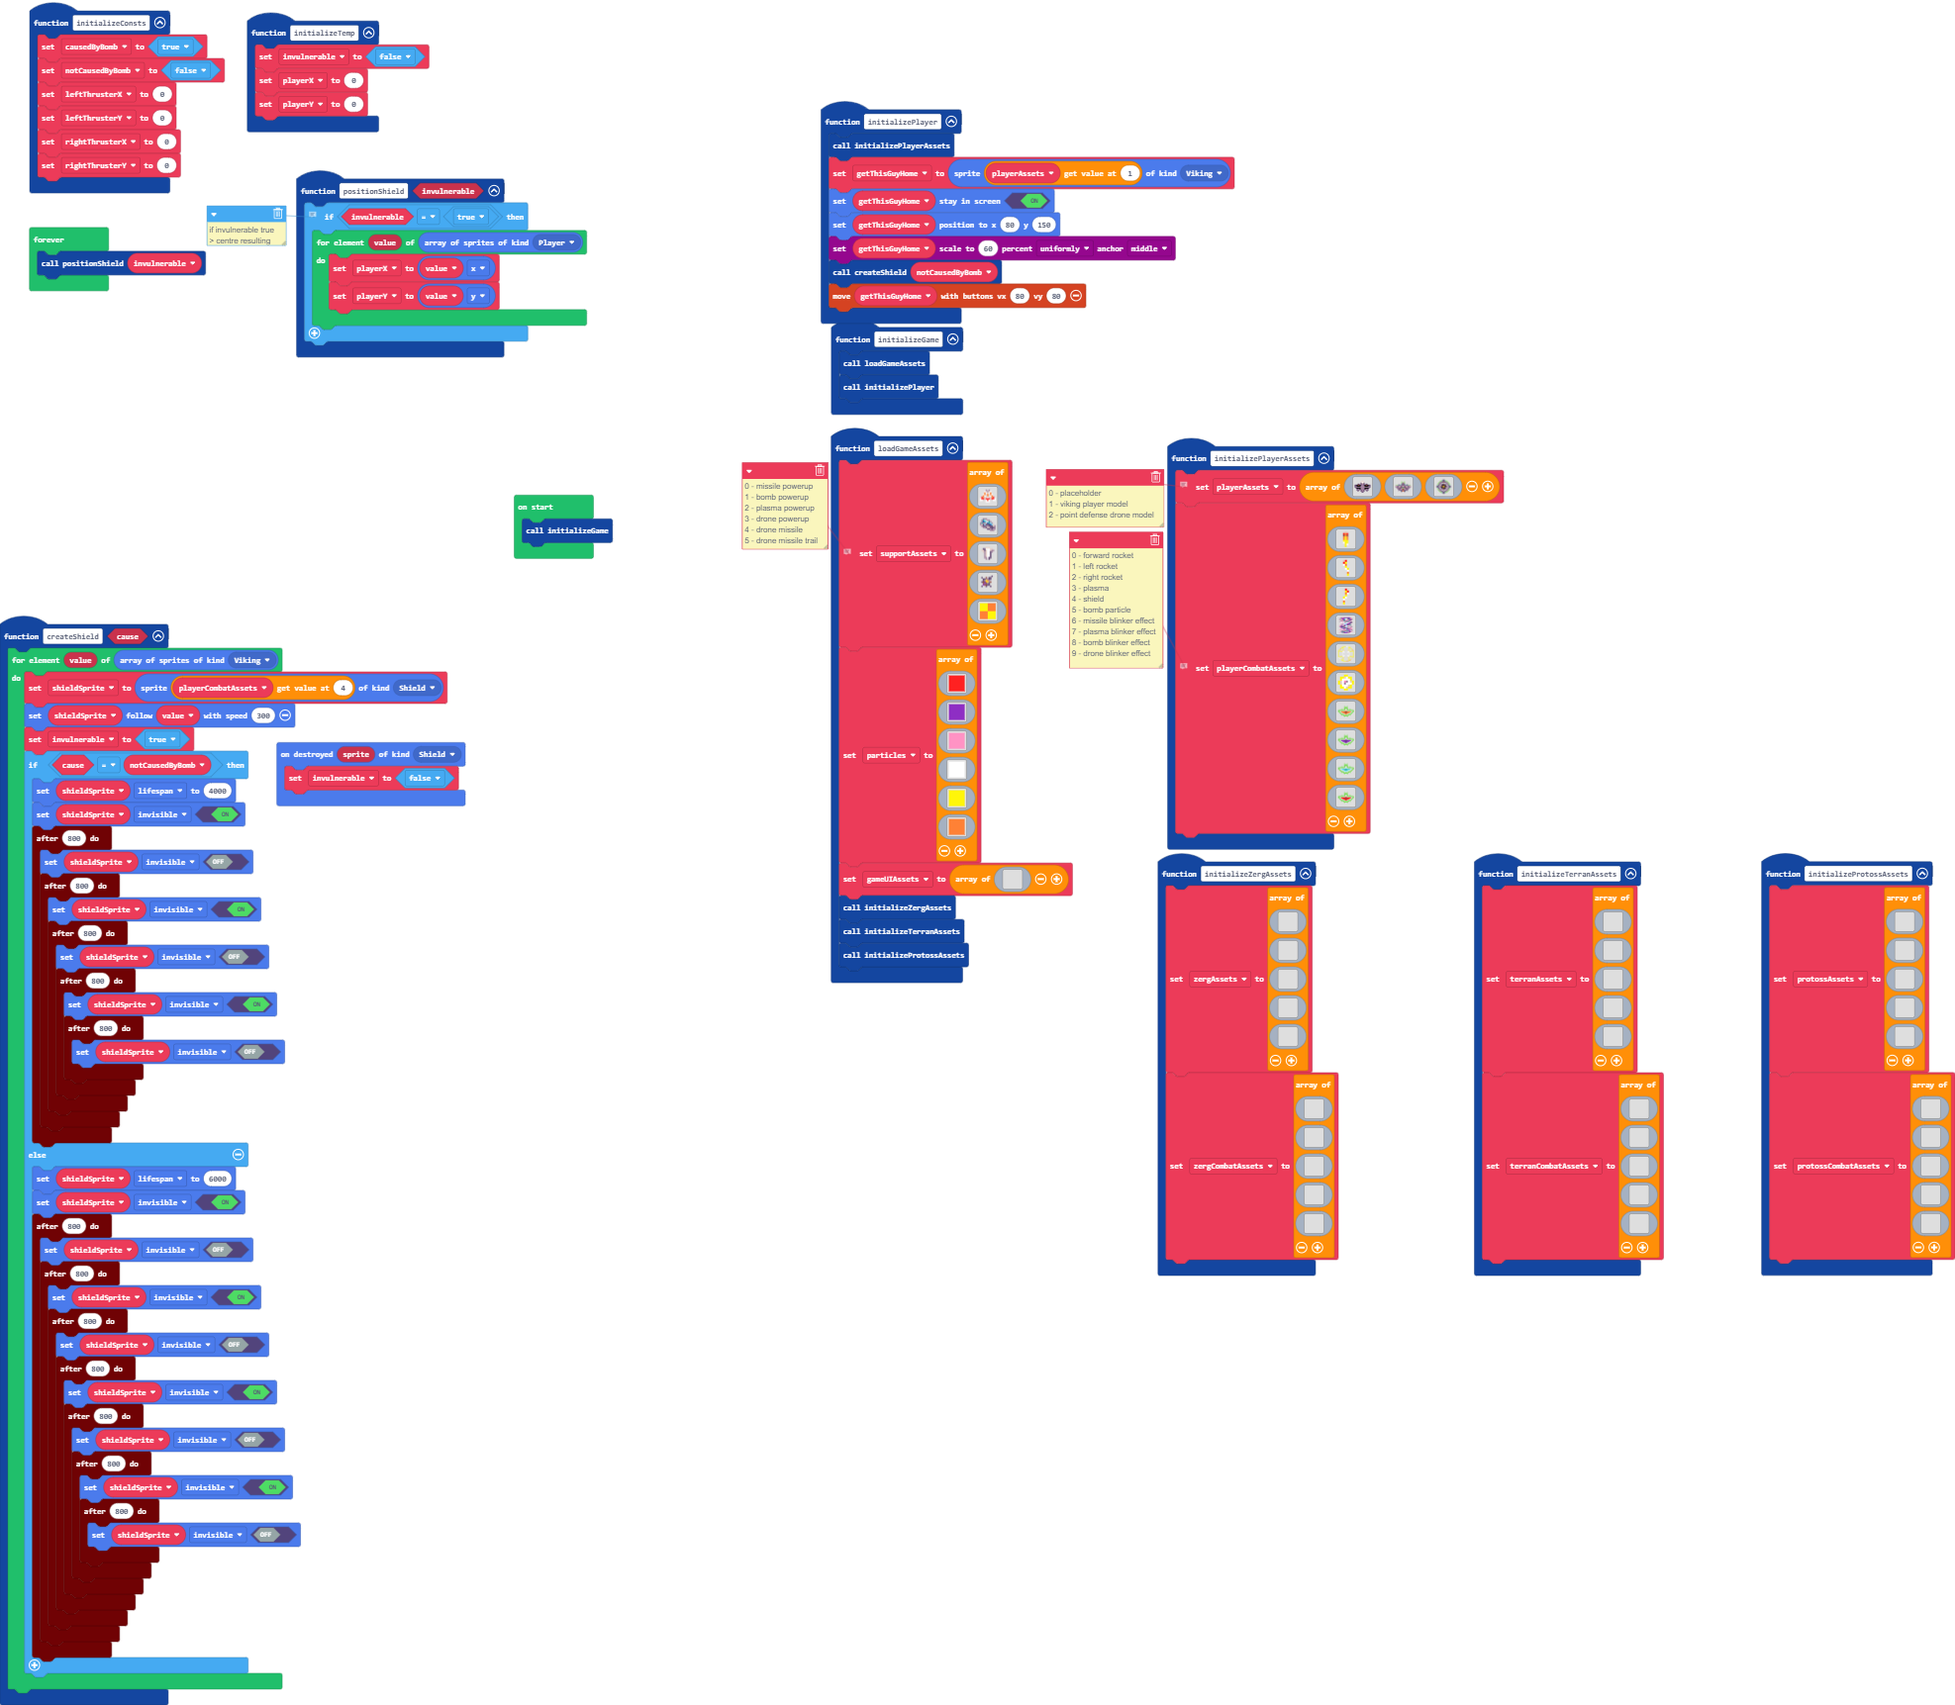
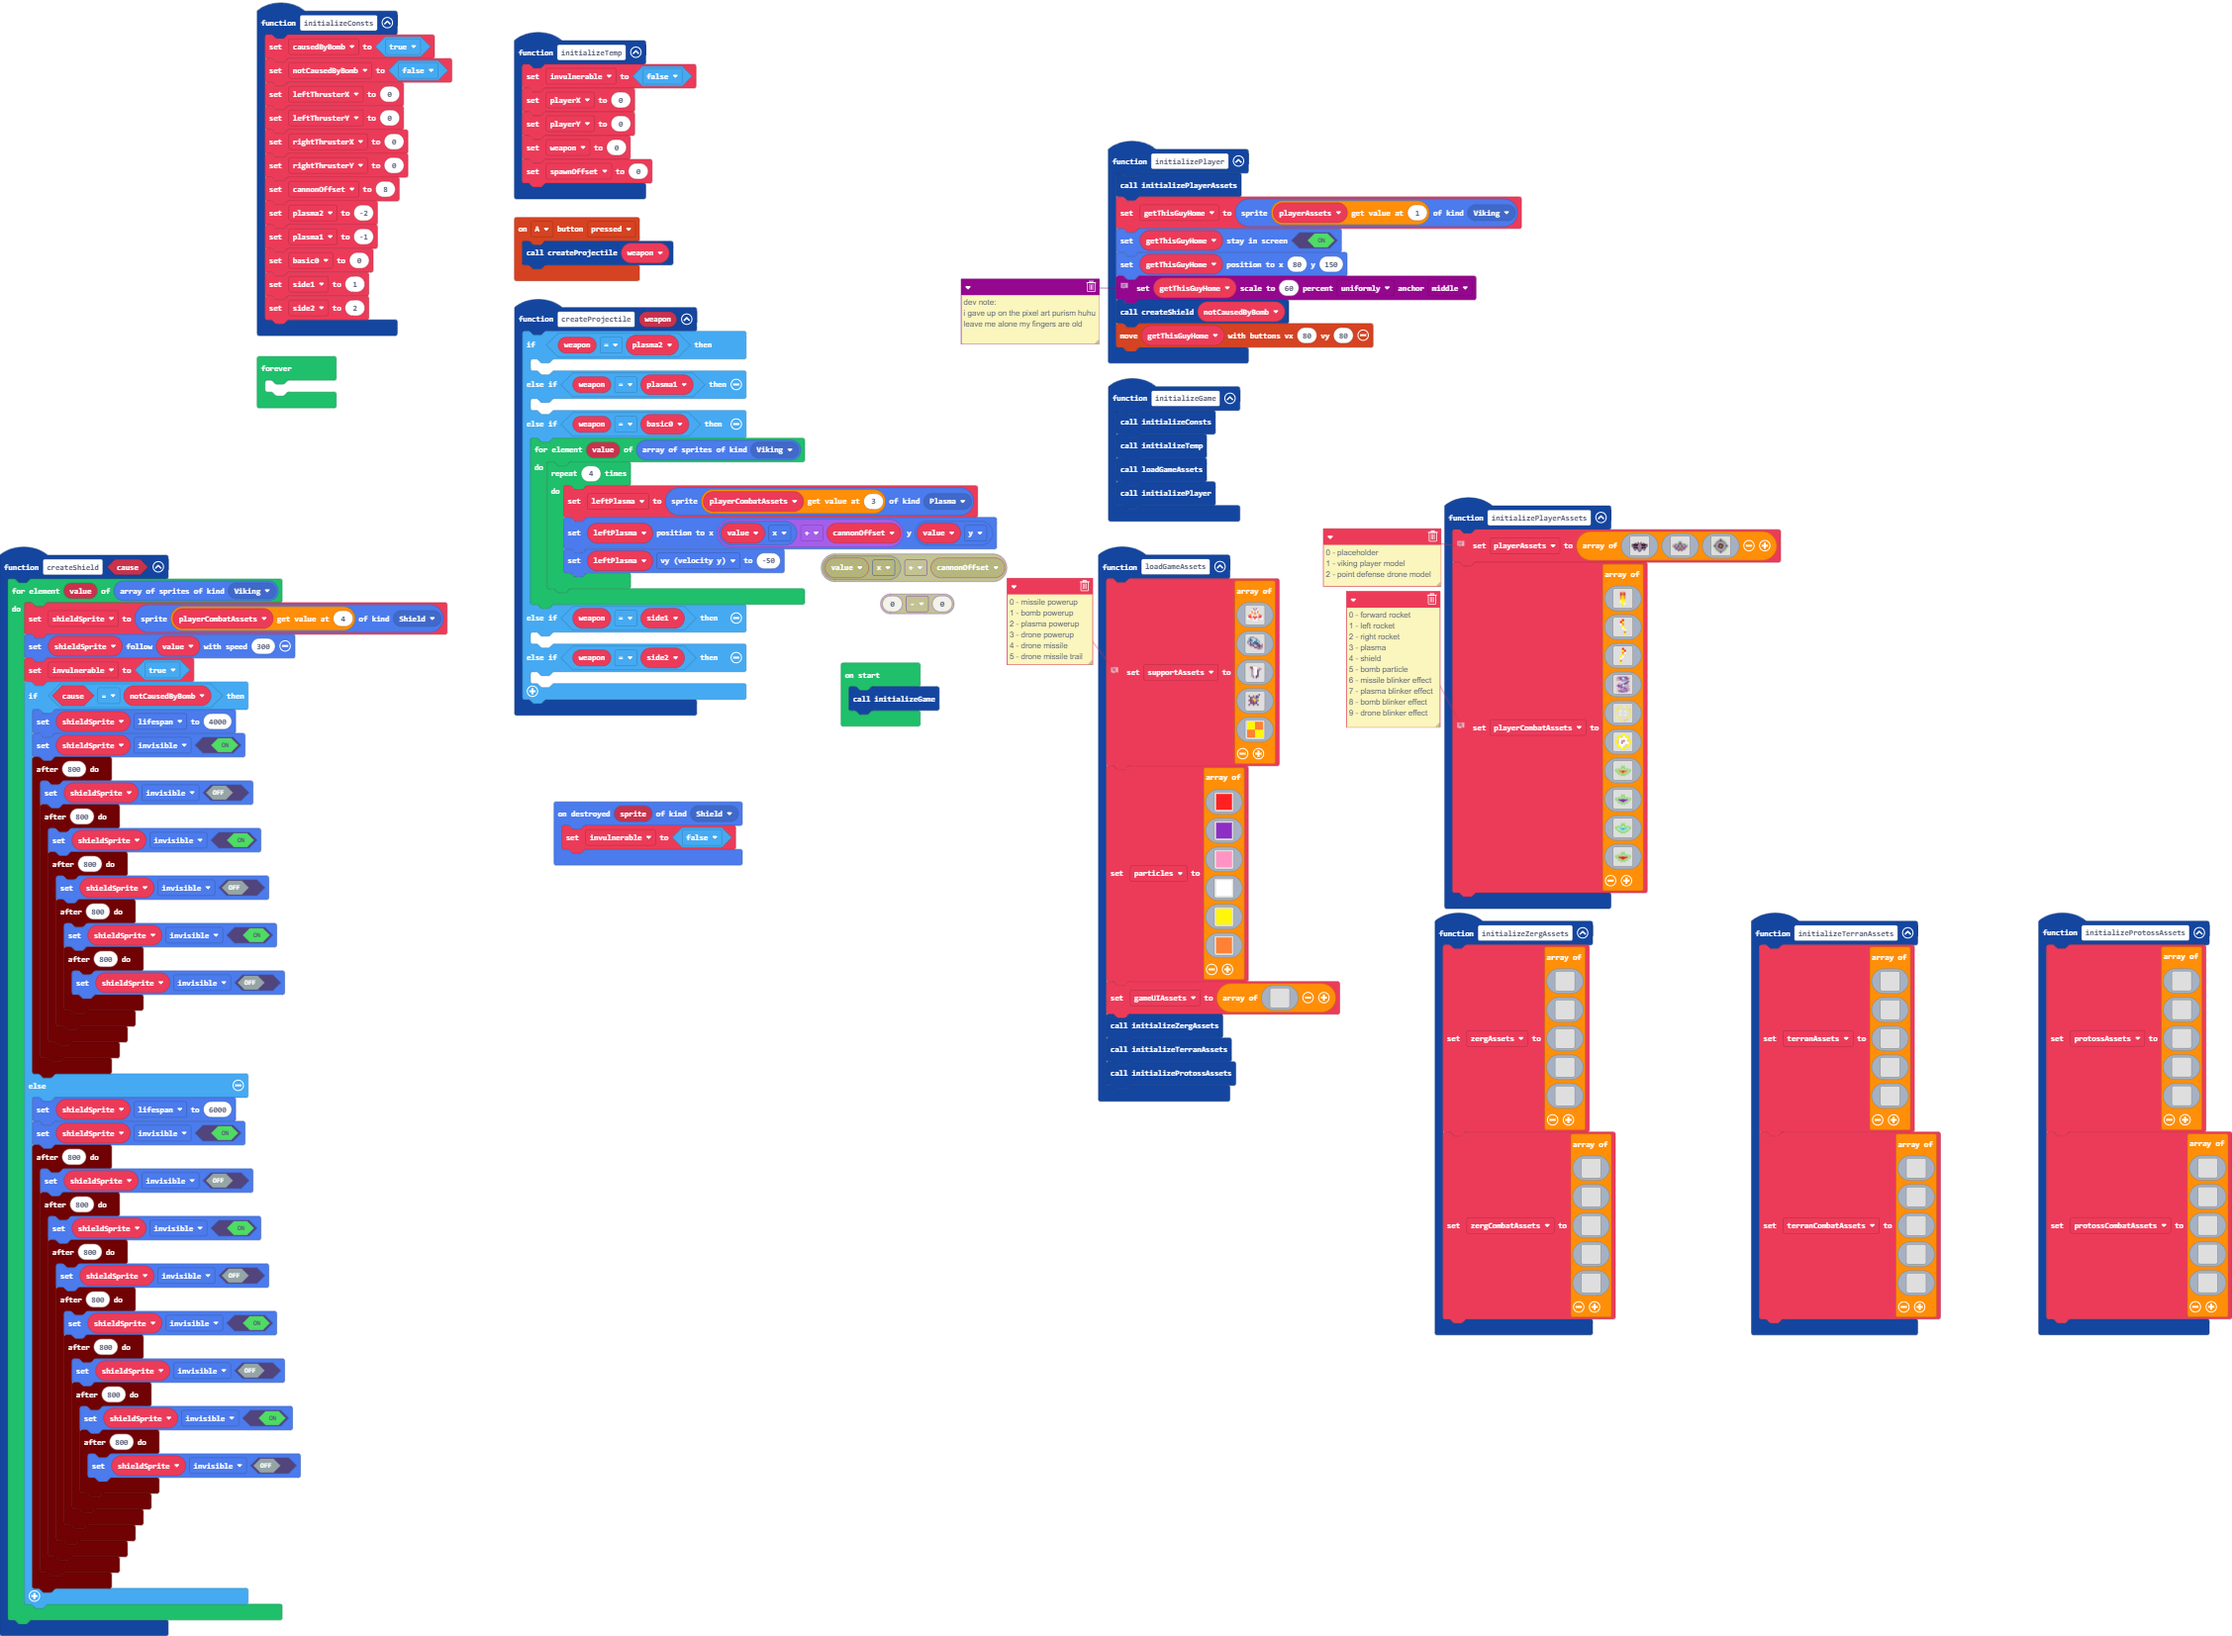
initialize weapon functionality

diff --git a/main.ts b/main.ts
@@ -1,15 +1,25 @@
 namespace SpriteKind {
     export const Viking = SpriteKind.create()
     export const Shield = SpriteKind.create()
+    export const Plasma = SpriteKind.create()
 }
-function positionShield (invulnerable: boolean) {
-    // if invulnerable true
-    // > centre resulting shield on player
-    if (invulnerable == true) {
-        for (let value of sprites.allOfKind(SpriteKind.Player)) {
-            playerX = value.x
-            playerY = value.y
+function createProjectile (weapon: number) {
+    if (weapon == plasma2) {
+    	
+    } else if (weapon == plasma1) {
+    	
+    } else if (weapon == basic0) {
+        for (let value of sprites.allOfKind(SpriteKind.Viking)) {
+            for (let index = 0; index < 4; index++) {
+                leftPlasma = sprites.create(playerCombatAssets[3], SpriteKind.Plasma)
+                leftPlasma.setPosition(value.x + cannonOffset, value.y)
+                leftPlasma.vy = -50
+            }
         }
+    } else if (weapon == side1) {
+    	
+    } else if (weapon == side2) {
+    	
     }
 }
 function initializePlayer () {
@@ -17,6 +27,8 @@ function initializePlayer () {
     getThisGuyHome = sprites.create(playerAssets[1], SpriteKind.Viking)
     getThisGuyHome.setStayInScreen(true)
     getThisGuyHome.setPosition(80, 150)
+    // dev note:
+    // i gave up on the pixel art purism huhu leave me alone my fingers are old
     scaling.scaleToPercent(getThisGuyHome, 60, ScaleDirection.Uniformly, ScaleAnchor.Middle)
     createShield(notCausedByBomb)
     controller.moveSprite(getThisGuyHome, 80, 80)
@@ -207,10 +219,15 @@ function initializeTerranAssets () {
         `
     ]
 }
+controller.A.onEvent(ControllerButtonEvent.Pressed, function () {
+    createProjectile(weapon)
+})
 sprites.onDestroyed(SpriteKind.Shield, function (sprite) {
     invulnerable = false
 })
 function initializeGame () {
+    initializeConsts()
+    initializeTemp()
     loadGameAssets()
     initializePlayer()
 }
@@ -221,6 +238,12 @@ function initializeConsts () {
     leftThrusterY = 0
     rightThrusterX = 0
     rightThrusterY = 0
+    cannonOffset = 8
+    plasma2 = -2
+    plasma1 = -1
+    basic0 = 0
+    side1 = 1
+    side2 = 2
 }
 function createShield (cause: boolean) {
     for (let value of sprites.allOfKind(SpriteKind.Viking)) {
@@ -728,6 +751,8 @@ function initializeTemp () {
     invulnerable = false
     playerX = 0
     playerY = 0
+    weapon = 0
+    spawnOffset = 0
 }
 function initializeProtossAssets () {
     protossAssets = [
@@ -1019,9 +1044,11 @@ let particles2: Image[] = []
 let supportAssets: Image[] = []
 let protossCombatAssets: Image[] = []
 let protossAssets: Image[] = []
+let spawnOffset = 0
+let playerY = 0
+let playerX = 0
 let zergCombatAssets: Image[] = []
 let zergAssets: Image[] = []
-let playerCombatAssets: Image[] = []
 let shieldSprite: Sprite = null
 let rightThrusterY = 0
 let rightThrusterX = 0
@@ -1029,14 +1056,21 @@ let leftThrusterY = 0
 let leftThrusterX = 0
 let causedByBomb = false
 let invulnerable = false
+let weapon = 0
 let terranCombatAssets: Image[] = []
 let terranAssets: Image[] = []
 let notCausedByBomb = false
 let playerAssets: Image[] = []
 let getThisGuyHome: Sprite = null
-let playerY = 0
-let playerX = 0
+let cannonOffset = 0
+let playerCombatAssets: Image[] = []
+let leftPlasma: Sprite = null
+let side2 = 0
+let side1 = 0
+let basic0 = 0
+let plasma1 = 0
+let plasma2 = 0
 initializeGame()
 forever(function () {
-    positionShield(invulnerable)
+	
 })
